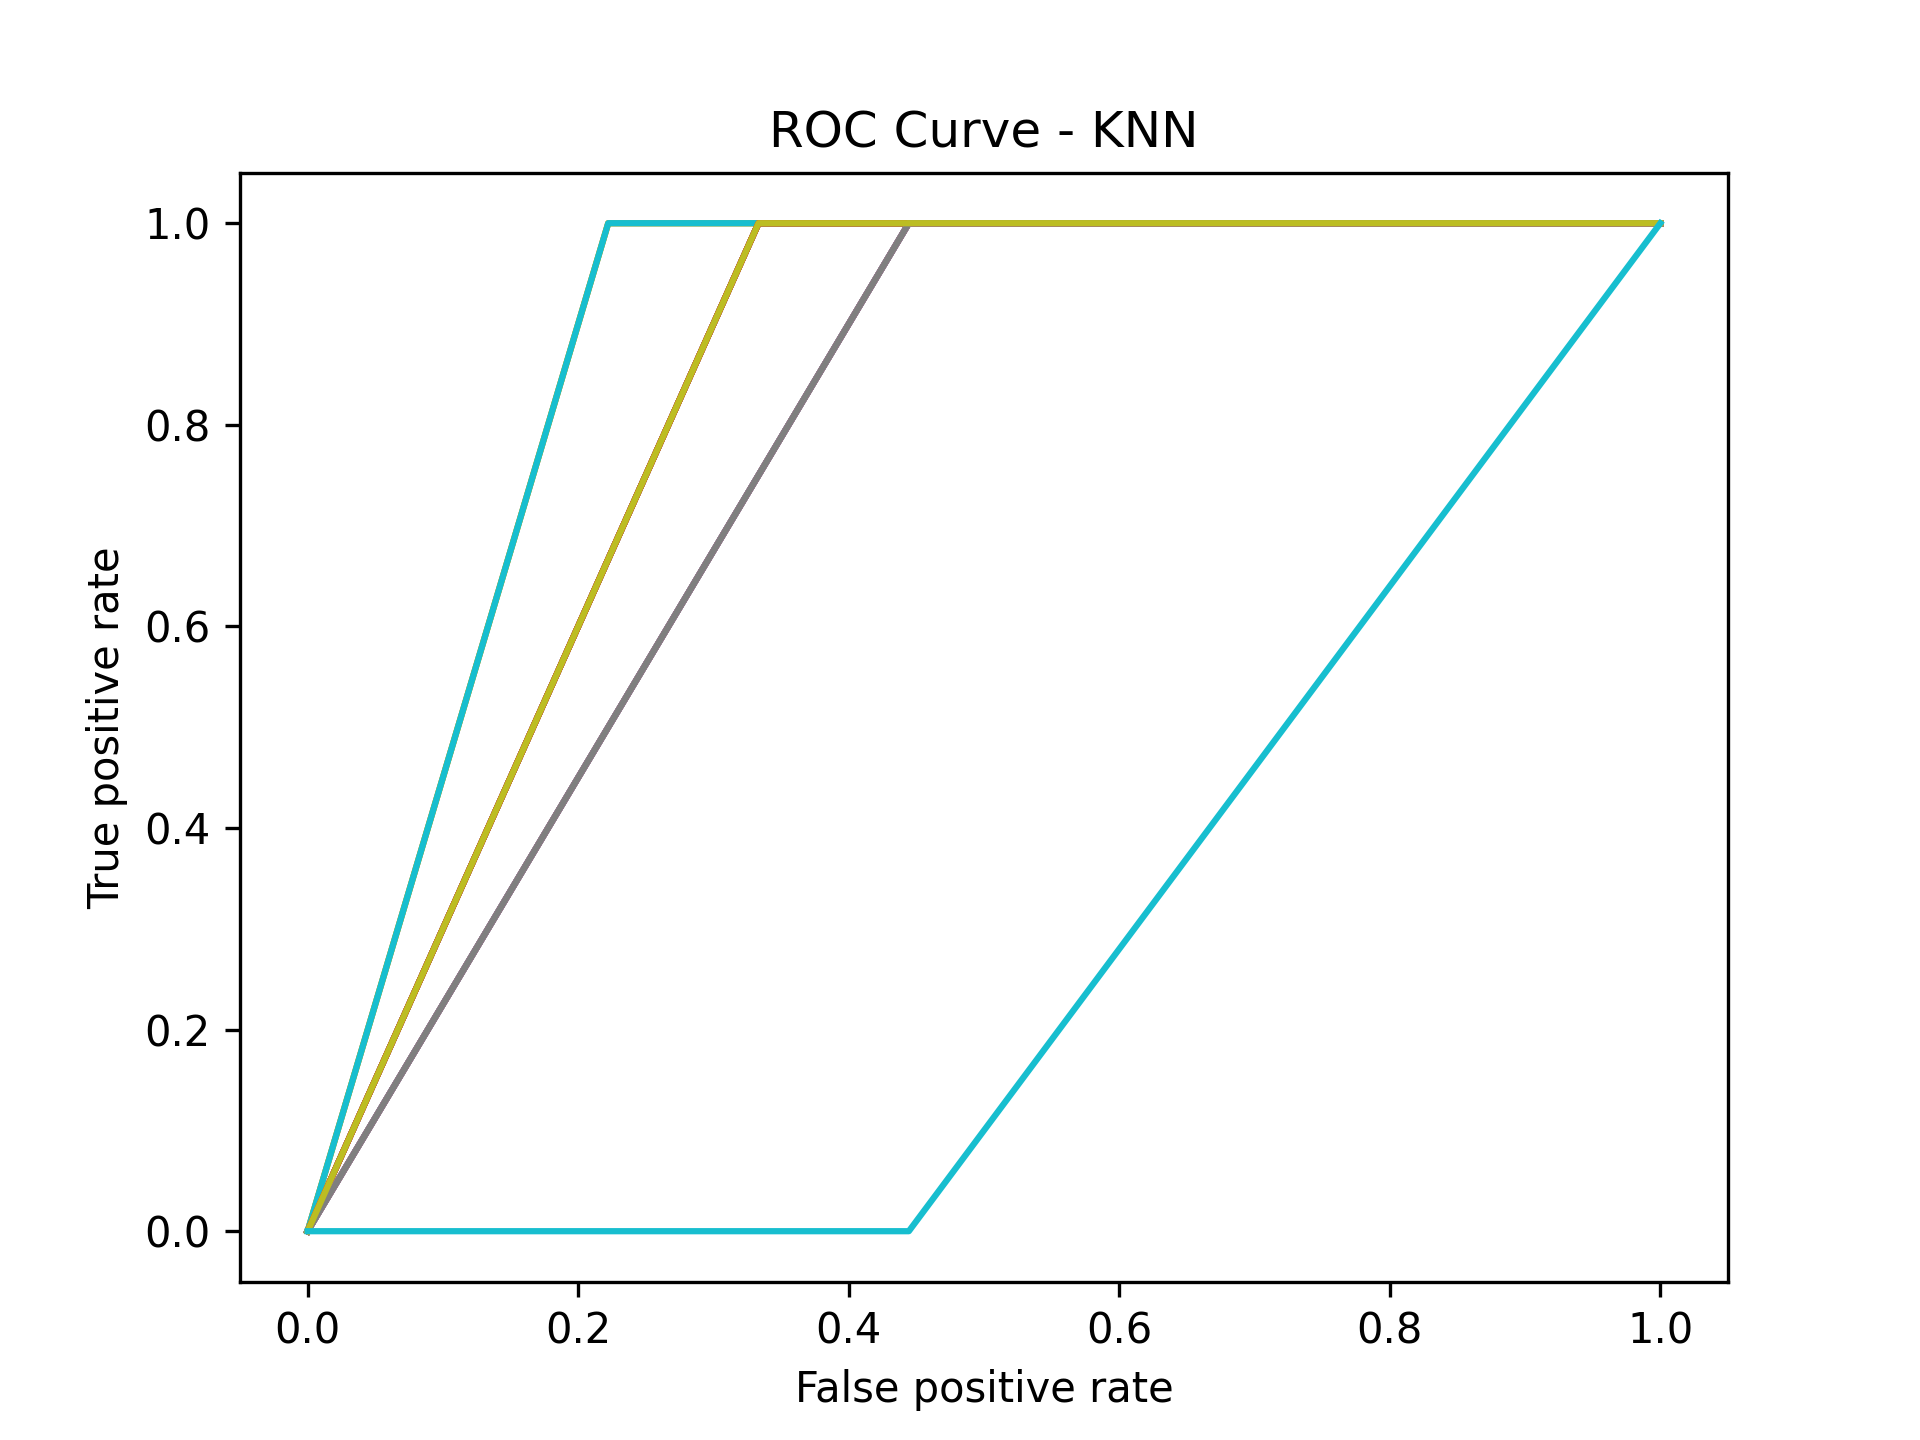
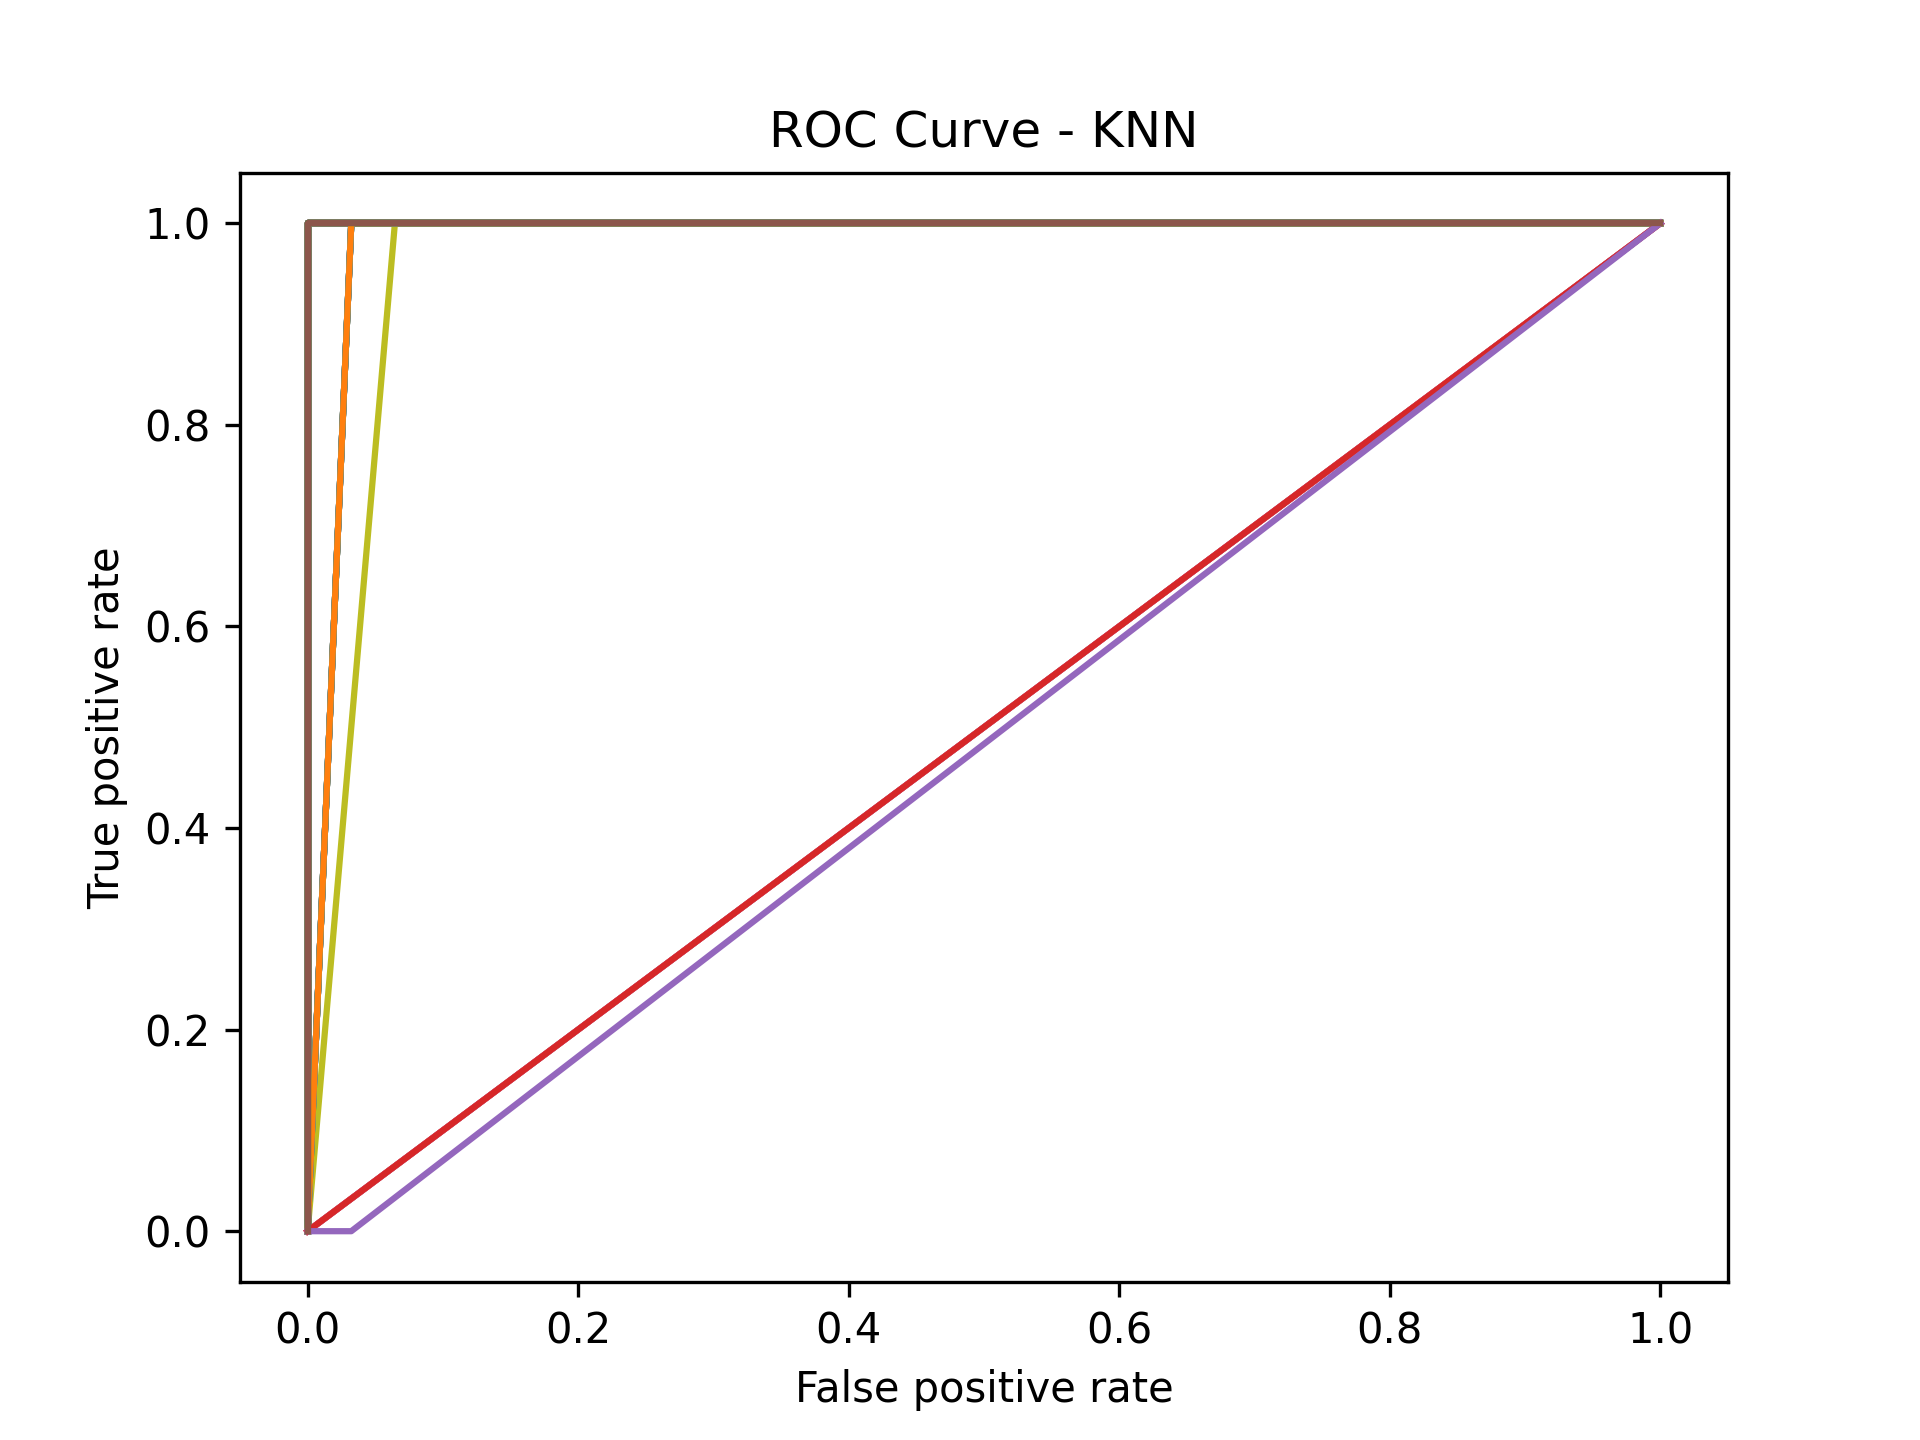
new k value

diff --git a/detectFace.py b/detectFace.py
@@ -12,6 +12,7 @@ from sklearn.svm import SVC
 
 face_cascade = cv2.CascadeClassifier('haarcascade_frontalface_default.xml')
 
+
 # load images from folder to array
 def read_images_from_folder(folder):
     image_list = []
@@ -208,7 +209,7 @@ if __name__ == '__main__':
 
     print("[INFO] Loading test data...")
     # read test image
-    test_data, test_labels = read_images_from_folder("tilted")
+    test_data, test_labels = read_images_from_folder("test")
     adjusted_test_data = test_data - data.mean(axis=1, keepdims=True)
 
     # perform inner product with top n eigenvectors and the adjusted test data
@@ -219,7 +220,7 @@ if __name__ == '__main__':
     correct_prediction = 0
 
     # k = square root of N (number of samples)
-    k = math.floor(math.sqrt(len(labels)))
+    k = math.floor(math.sqrt(len(labels))/2)
 
     recognition_threshold = 6000
 
@@ -289,9 +290,11 @@ if __name__ == '__main__':
     #     cv2.imshow("adjusted_image", im_unflatten)
     #     cv2.waitKey(0)
 
+    # eigenfaces = np.array([]).reshape(100, 0)
     # for i in range(10):
-    #     im = np.array(top_n_eigenvectors.T[i])
+    #     im = np.array((64 * top_n_eigenvectors.T[i]))
     #     im_unflatten = np.reshape(im, (100, 100))
-    #     cv2.imwrite("adjusted_image.jpg", im_unflatten)
-    #     cv2.imshow("adjusted_image", im_unflatten)
-    #     cv2.waitKey(0)
+    #     eigenfaces = np.hstack([eigenfaces, im_unflatten])
+    #
+    # cv2.imshow("eigenfaces", eigenfaces)
+    # cv2.waitKey(0)
